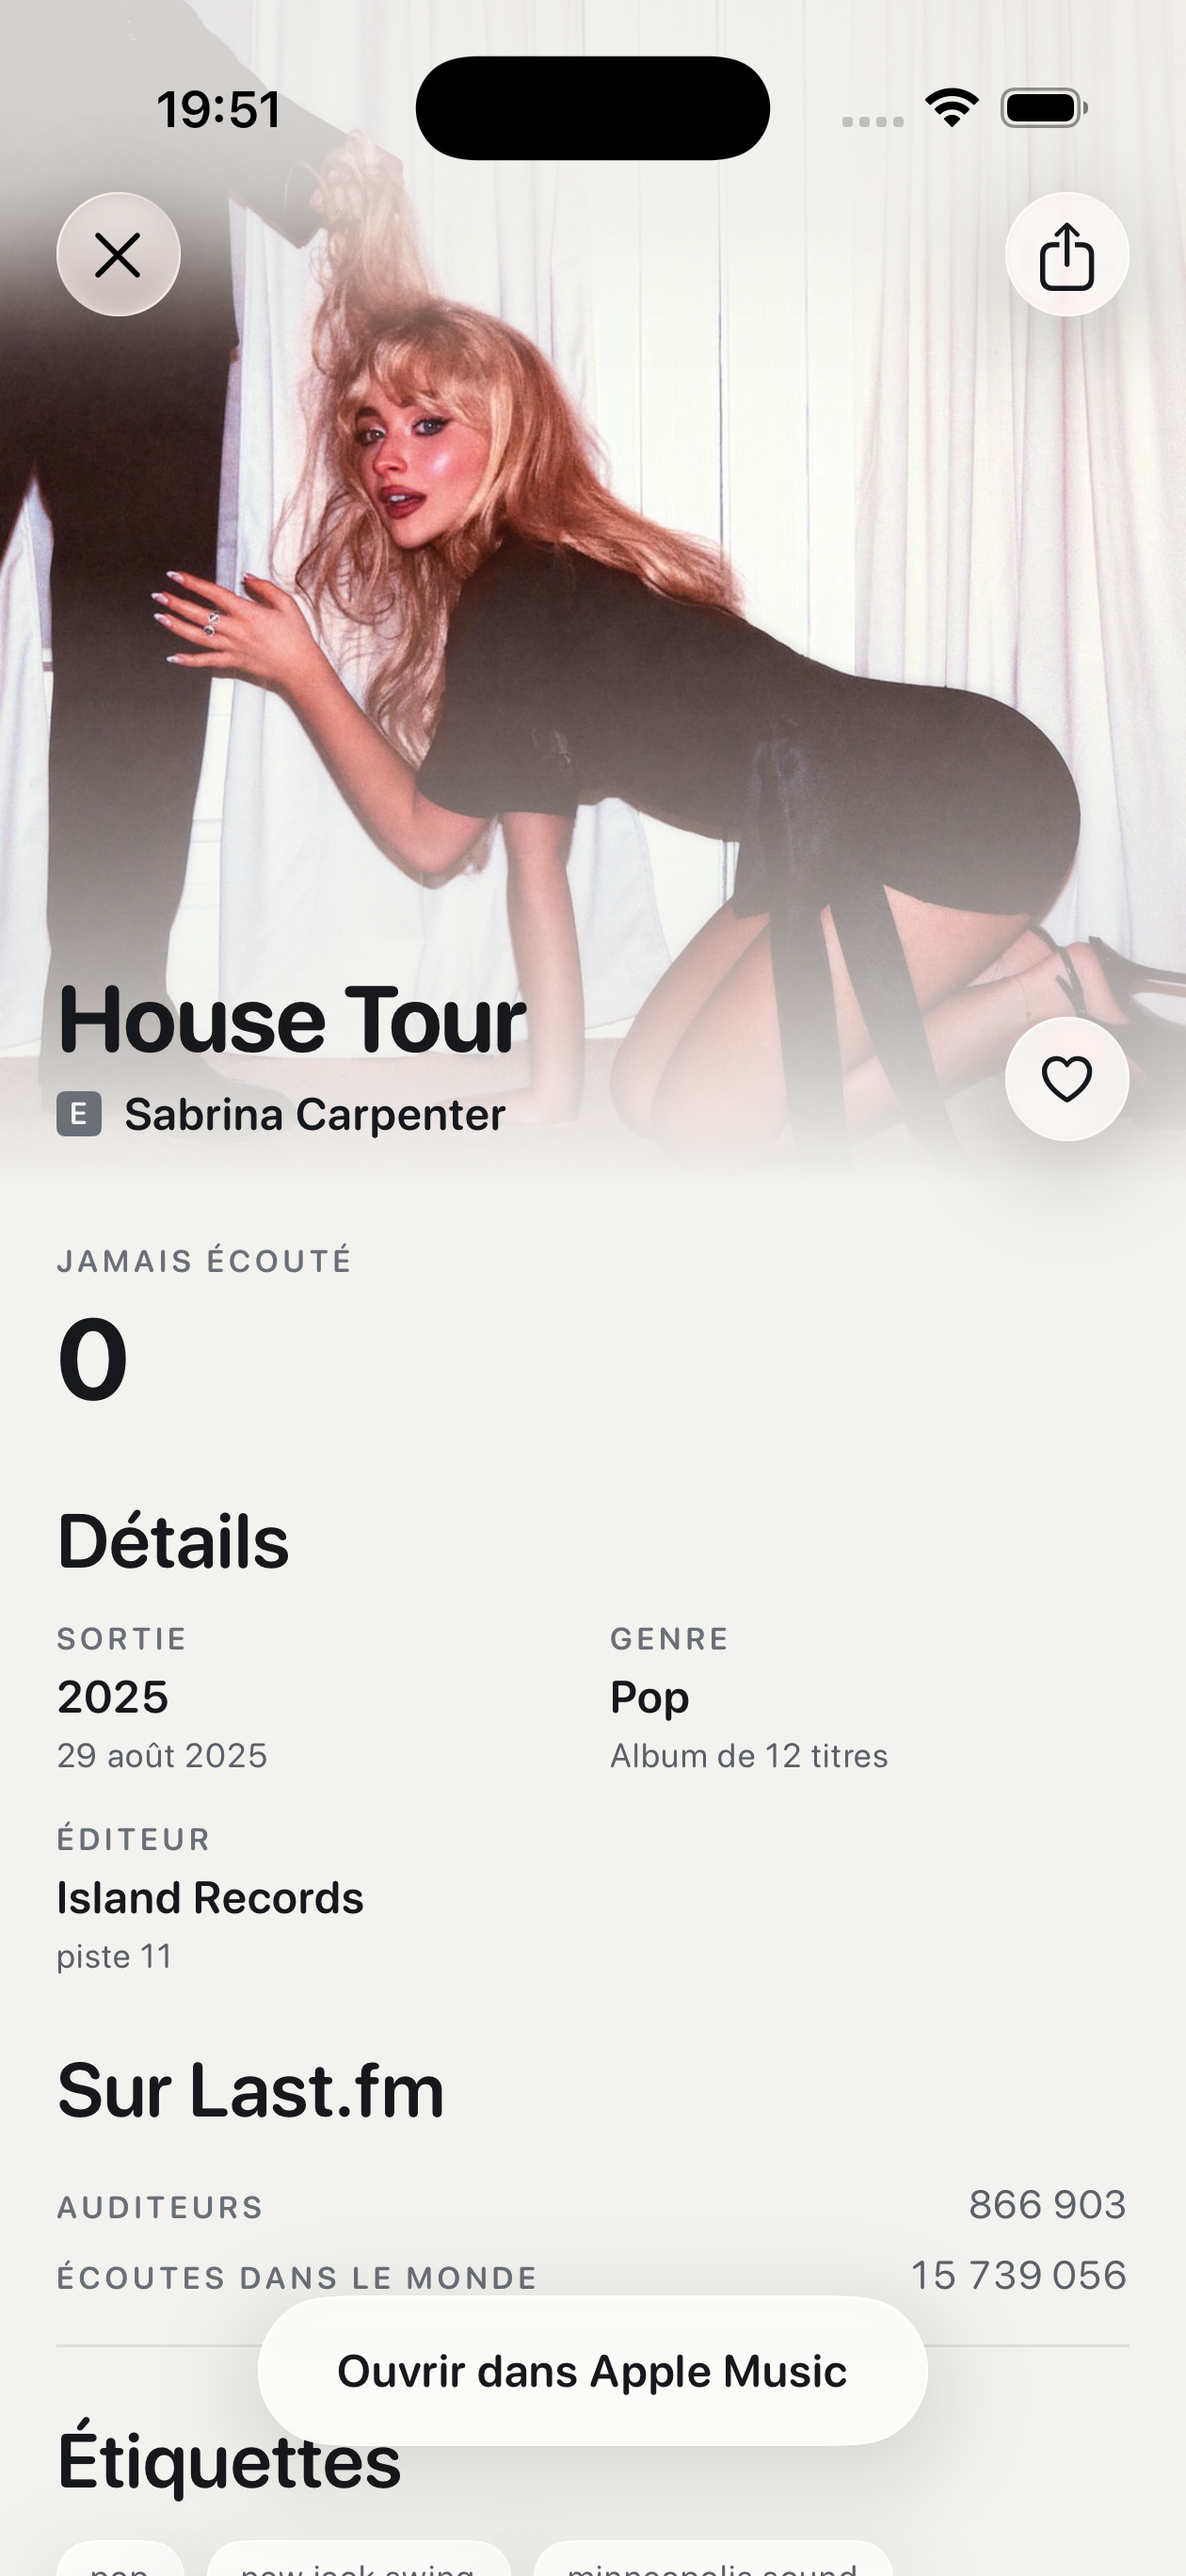
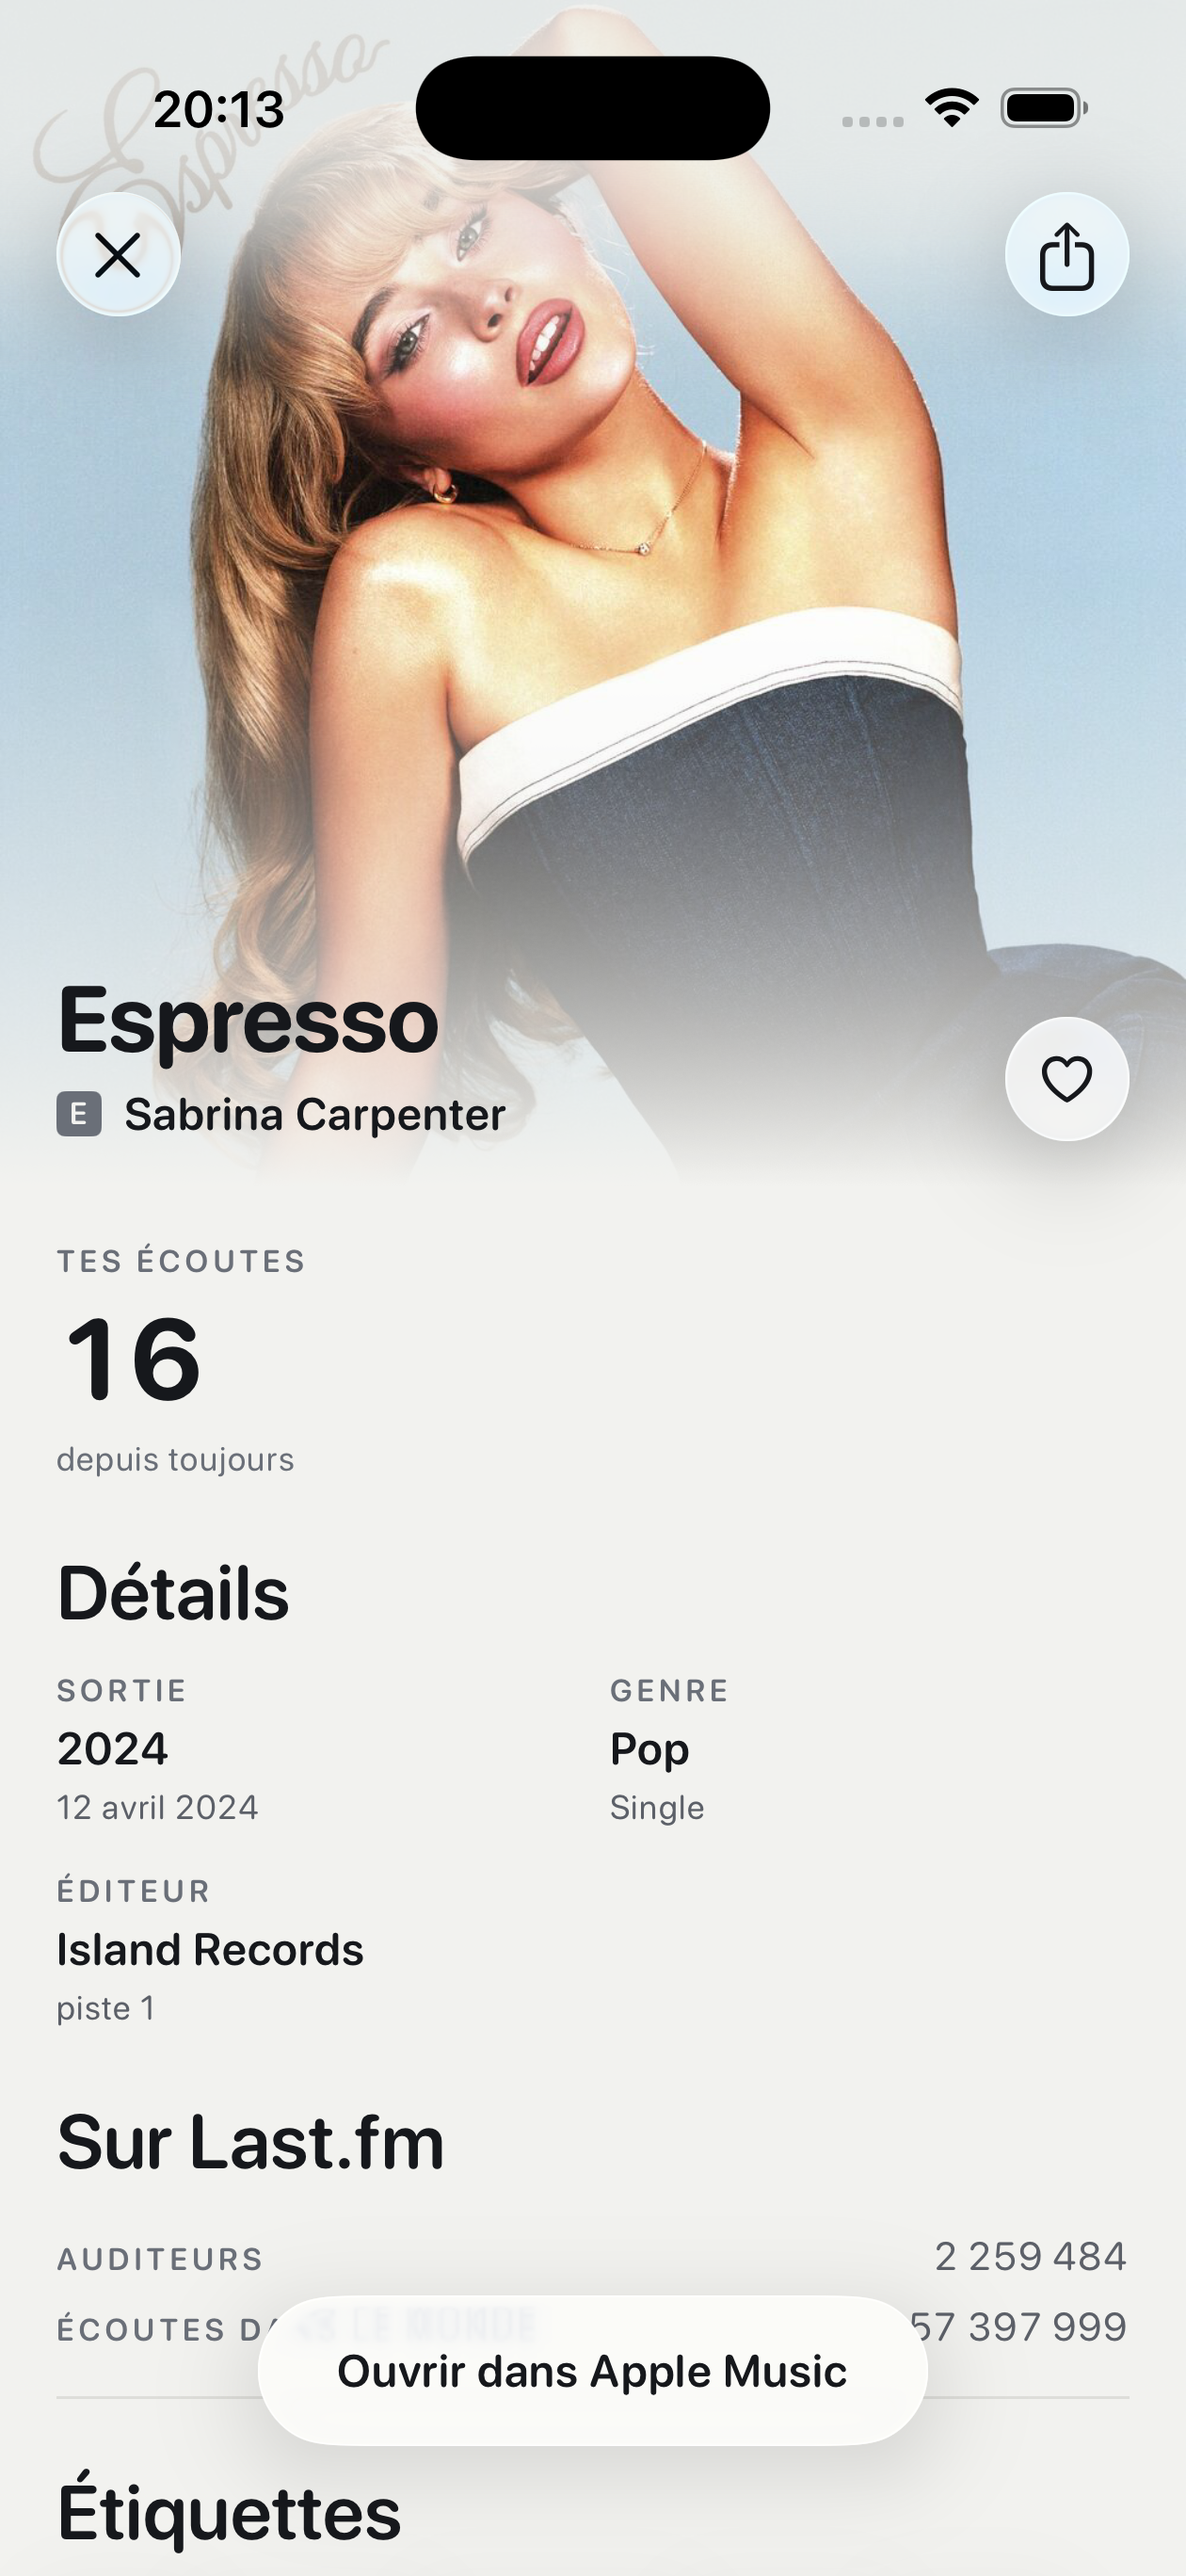
docs: les captures reprises sur le vrai compte
arestotle, 1 132 843 écoutes. Ce qui change tout, c'est que les chiffres
parlent enfin.

Le héros affiche 44 écoutes de « stupid song » au lieu de zéro — sur une
page qui vante un journal d'écoutes, c'était le défaut le plus coûteux.
Le journal porte son total et, enfin, un éventail de pochettes : trois
écoutes d'affilée du même remix, groupées sous une seule vignette. Le Top
rend neuf rangs sur l'année ; sur sept jours ce compte n'en a que deux, et
l'écran affichait « Rien à classer ».

Sabrina Carpenter passe de « House Tour », jamais écoutée, à « Espresso »
et ses seize écoutes.

Une réserve nouvelle, notée dans le brief : quatre lignes du journal n'ont
pas de pochette. Les écoutes les plus récentes du compte sont un remix,
une reprise et deux titres de Кино, dont personne n'a la couverture. L'app
cherche partout et montre son aplat quand elle ne trouve pas — mais c'est
le haut de la capture.

Reste la salle d'attente, la seule indispensable encore manquante : elle
n'a de contenu que si le moteur a vraiment relevé des écoutes douteuses.

diff --git a/LandingPage.md b/LandingPage.md
@@ -7,36 +7,43 @@ s'en fait : chaque point ci-dessous existe et se voit à l'écran.
 
 ## Les captures livrées
 
-Dans `public/shots/`. Prises au simulateur sur un vrai compte Last.fm, données
-réelles — pochettes, compteurs d'auditeurs, notices, étiquettes.
+Dans `src/assets/shots/`, servies par `astro:assets`. Prises au simulateur sur
+le compte **arestotle** — 1 132 843 écoutes. Données réelles de bout en bout :
+pochettes, compteurs personnels, classements, notices, étiquettes.
 
 | Fichier | Appareil | Morceau | Pour |
 |---|---|---|---|
-| `detail-iphone.png` | iPhone, 1260 × 2736 | *stupid song* — Olivia Rodrigo | le héros |
-| `detail-ipad.png` | iPad, 1640 × 2360 | *stupid song* — Olivia Rodrigo | le héros, version large |
+| `detail-iphone.png` | iPhone, 1260 × 2736 | *stupid song* — Olivia Rodrigo, **44 écoutes** | le héros |
+| `detail-ipad.png` | iPad, 1640 × 2360 | *stupid song* — Olivia Rodrigo, **44 écoutes** | le héros, version large |
+| `detail-sabrina-iphone.png` | iPhone | *Espresso* — Sabrina Carpenter, 16 écoutes | seconde section |
 | `detail-taylor-iphone.png` | iPhone | *I Knew It, I Knew You* — Taylor Swift | seconde section |
-| `detail-sabrina-iphone.png` | iPhone | *House Tour* — Sabrina Carpenter | seconde section |
-| `journal-iphone.png` | iPhone | — | « A journal, not a feed. » |
-| `tops-iphone.png` | iPhone | — | le nuage de mots |
-| `artist-iphone.png` | iPhone | Fleetwood Mac | « A page behind every track. » |
+| `journal-iphone.png` | iPhone | **1 132 843 écoutes**, éventail visible | « A journal, not a feed. » |
+| `tops-iphone.png` | iPhone | le top de l'année, neuf rangs | le nuage de mots |
+| `artist-iphone.png` | iPhone | Fleetwood Mac, 596 écoutes | « A page behind every track. » |
 
 Le composant `Shot.astro` attend `src` ; il rend un bloc vide tant qu'on ne le
 lui donne pas. `phone` pour les captures d'iPhone, sans lui pour l'iPad.
 
 ### Ce qui cloche encore sur ces captures
 
-**« JAMAIS ÉCOUTÉ · 0 ».** Le compte qui a servi aux prises n'a jamais joué ces
-morceaux. Sur un héros, c'est le pire chiffre possible — la page vante un
-journal d'écoutes et montre un compteur à zéro. À refaire depuis un compte qui
-a réellement écouté le morceau choisi.
+**Quatre lignes du journal n'ont pas de pochette.** Les écoutes les plus
+récentes du compte sont un remix de Charli xcx, une reprise et deux titres de
+Кино : ni Last.fm ni Apple ni Deezer n'en ont de couverture. Ce n'est pas un
+défaut de l'app — elle cherche partout et affiche son aplat quand personne n'a
+l'image — mais c'est le haut de la capture. Une prise faite après avoir écouté
+deux ou trois albums bien pourvus serait plus vendeuse.
 
 **La barre d'état** porte l'heure du simulateur et pas de réseau cellulaire. À
 recadrer, ou à reprendre sur un appareil.
 
-**L'iPad est en thème clair**, l'iPhone en sombre : la fiche prend la teinte de
-sa pochette, et celle d'Olivia Rodrigo est claire. Ce n'est pas un défaut —
-c'est une fonctionnalité de l'app — mais il faut le savoir avant de composer la
-page, sous peine de croire à une incohérence.
+**Les thèmes diffèrent d'une capture à l'autre.** La fiche prend la teinte de
+sa pochette : *stupid song* est claire, donc sa fiche l'est. Ce n'est pas une
+incohérence, c'est une fonctionnalité — mais il faut le savoir avant de
+composer la page.
+
+**Le Top est pris sur l'année.** Sur sept jours, ce compte n'a que deux
+morceaux, et l'écran affichait « Rien à classer ». L'année donne neuf rangs, et
+le sous-titre le dit — « cette année ».
 
 ---
 
@@ -46,26 +53,22 @@ Demandées par la page, dans l'ordre où elle en a besoin.
 
 ### Indispensables — chacune a déjà sa place
 
-1. ~~**`journal-iphone.png`**~~ — **livrée.** Une journée bien remplie, des
-   pochettes variées, les en-têtes de journée. **Il y manque l'éventail** : le
-   compte de test n'a pas de suite d'un même artiste dans ses écoutes récentes,
-   et on ne peut pas en fabriquer une. À reprendre depuis un compte qui a
-   enchaîné trois titres du même artiste.
+1. ~~**`journal-iphone.png`**~~ — **livrée**, avec son éventail : trois écoutes
+   d'affilée du même remix de Charli xcx, groupées sous une seule pochette.
+   Voir plus haut la réserve sur les couvertures manquantes.
 
 2. **`review-iphone.png`** — la salle d'attente, deux ou trois écoutes en
    attente d'approbation. Pour « Uncertain listens wait for your approval. »
    C'est l'argument que personne d'autre ne tient : il mérite une image.
 
-3. ~~**`tops-iphone.png`**~~ — **livrée.** Neuf rangs avec leurs pochettes.
-   Sur « depuis toujours » et non sur la semaine : le compte de test n'a rien
-   écouté ces sept derniers jours, et la page s'affichait « Rien à classer ».
+3. ~~**`tops-iphone.png`**~~ — **livrée.** Neuf rangs avec leurs pochettes, sur
+   l'année.
 
 ### Reprise du héros
 
-4. **`detail-iphone.png`** et **`detail-ipad.png`** — les mêmes fiches, mais
-   depuis un compte qui a réellement écouté le morceau, pour que le compteur ne
-   soit pas à zéro. **Un titre beaucoup écouté, avec un chiffre qui parle, vaut
-   mieux que la plus belle des pochettes.**
+4. ~~**`detail-iphone.png`** et **`detail-ipad.png`**~~ — **reprises.** *stupid
+   song* affiche maintenant **44 écoutes** au lieu de zéro, et la page peut dire
+   ce qu'elle voulait dire.
 
 ### Bienvenues, sans place réservée encore
 
@@ -89,11 +92,12 @@ lisent que des données publiques.
 
 - La **salle d'attente** n'a de contenu que si le moteur a vraiment relevé des
   écoutes douteuses. On ne peut pas en fabriquer sans mentir sur ce que l'app
-  fait.
+  fait. **C'est la seule capture indispensable qui manque encore**, et c'est
+  celle qui porte l'argument que personne d'autre ne tient.
 - Le **widget** vit sur l'écran d'accueil, et un simulateur ne pose pas de
   widget tout seul.
-- Le **compteur d'écoutes** d'une fiche est celui du compte connecté. Un compte
-  de test rendra toujours zéro.
+- Les **réglages avec ListenBrainz activé** demandent un compte ListenBrainz
+  connecté.
 
 ---
 
